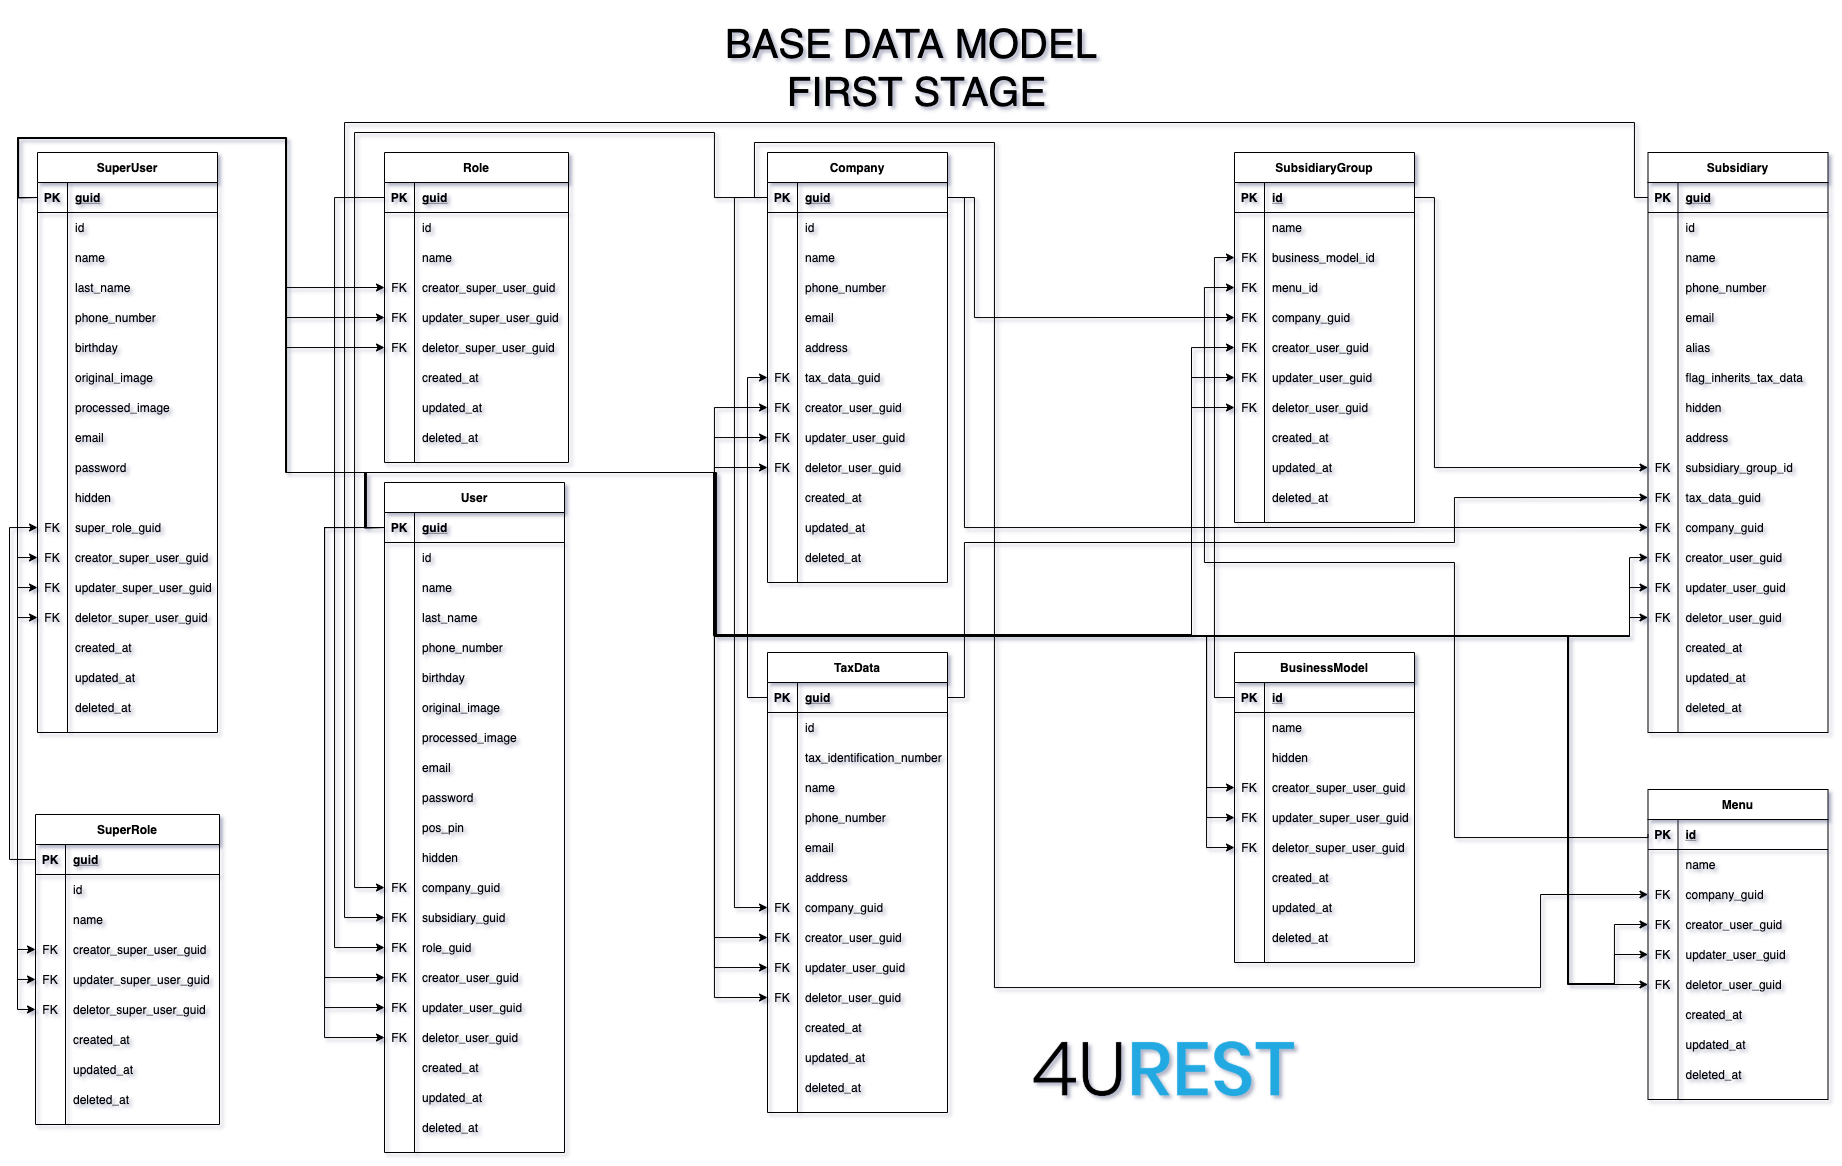
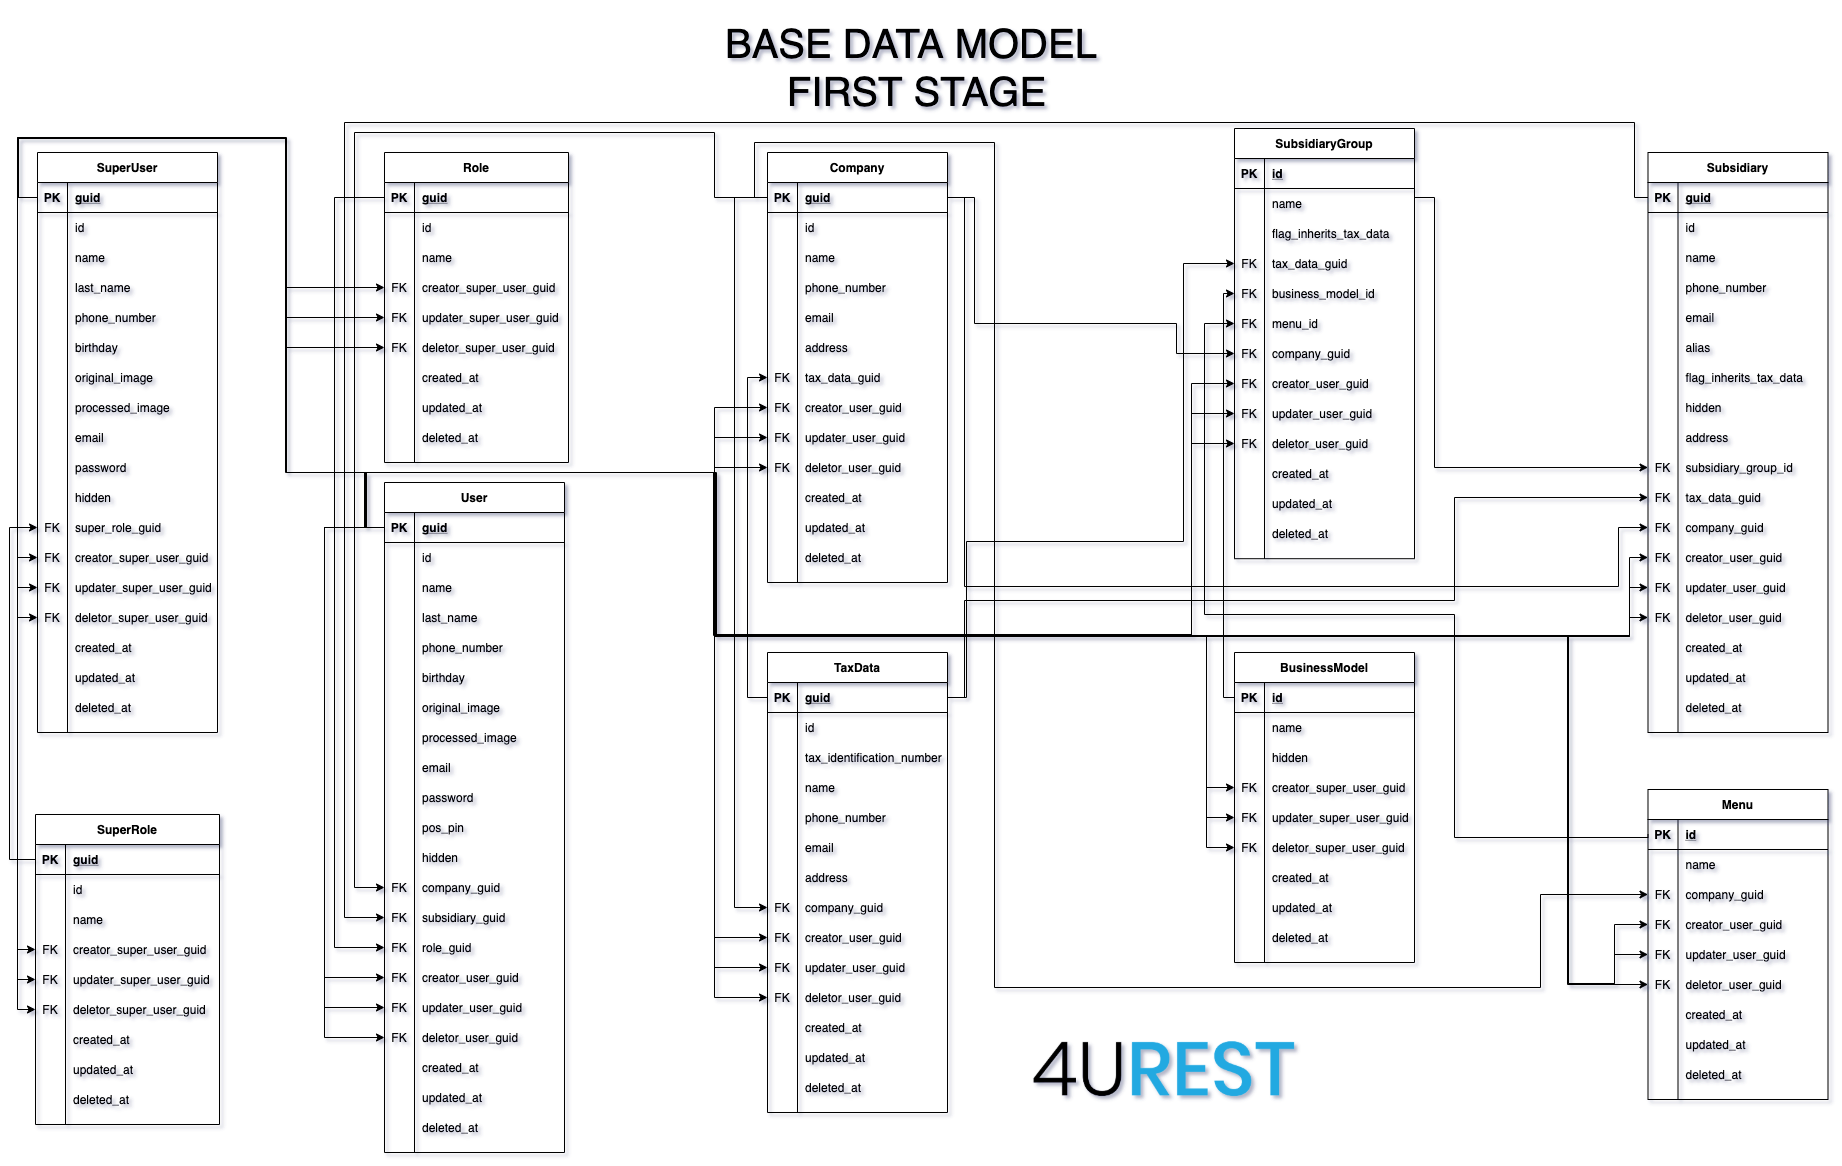
update database diagram

Changed region(s): [[0.6498, 0.0926, 0.7736, 0.5249]]

diff --git a/basedata/entities/SubsidiaryGroup.md b/basedata/entities/SubsidiaryGroup.md
@@ -1,22 +1,23 @@
 # Grupo de Sucursal
 
-Entidad utilizada para agrupar sucursales que comparten un menu.
-
-### **Tabla en base de datos.**
-
-
-Diagrama de la base de datos [(Link aquí)](https://app.diagrams.net/#G1TR1Q9nC36PcOae7jeaJIxgDLTjUUpkfL).
-
-### **Descripción de campos.**
-
-El detalle de los campos de la tabla en la base de datos son:
+Entidad utilizada para gestionar o clasificar un grupo de sucursales que comparten características base en el sistema, por ejemplo, un menú.
 
 ---
 
-### **3.  Modelo en base de datos.**
+## 1.   Descripción de campos.
+
+La descripción de los campos de las entidades se presenta a continuación.
+
+| Tipo | Campo | Descripción |
+
+--- 
+
+## 2.  Modelo en base de datos.
 
 El modelo de la entidad en la base de datos con sus llaves foráneas se presenta de la siguiente manera.
 
 ![Subsidiary Group table](/images/SubsidiaryGroupTable.png)
+
+Diagrama de la base de datos [(Link aquí)](https://app.diagrams.net/#G12bfdBfGq1QhoH-HbKd0D5KDiGZxJKMYT).
 
 📝 [Editar Documento](https://github.com/4uRest/documentation)

diff --git a/basedata/entities/TaxData.md b/basedata/entities/TaxData.md
@@ -1,22 +1,23 @@
 # Datos Físcales
 
-Entidad utilizada para clasificar/agrupar .
-
-### **Tabla en base de datos.**
-
-
-Diagrama de la base de datos [(Link aquí)](https://app.diagrams.net/#G1TR1Q9nC36PcOae7jeaJIxgDLTjUUpkfL).
-
-### **Descripción de campos.**
-
-El detalle de los campos de la tabla en la base de datos son:
+Entidad utilizada para gestionar los datos físcales de empresas, grupos de sucursales o sucursales en el sistema.
 
 ---
 
-### **3.  Modelo en base de datos.**
+## 1.   Descripción de campos.
+
+La descripción de los campos de las entidades se presenta a continuación.
+
+| Tipo | Campo | Descripción |
+
+--- 
+
+## 2.  Modelo en base de datos.
 
 El modelo de la entidad en la base de datos con sus llaves foráneas se presenta de la siguiente manera.
 
 ![Tax Data table](/images/TaxDataTable.png)
+
+Diagrama de la base de datos [(Link aquí)](https://app.diagrams.net/#G12bfdBfGq1QhoH-HbKd0D5KDiGZxJKMYT).
 
 📝 [Editar Documento](https://github.com/4uRest/documentation)

diff --git a/basedata/entities/BusinessModel.md b/basedata/entities/BusinessModel.md
@@ -1,22 +1,23 @@
 # Modelo de Negocio
 
-Entidad utilizada para clasificar/agrupar .
-
-### **Tabla en base de datos.**
-
-
-Diagrama de la base de datos [(Link aquí)](https://app.diagrams.net/#G1TR1Q9nC36PcOae7jeaJIxgDLTjUUpkfL).
-
-### **Descripción de campos.**
-
-El detalle de los campos de la tabla en la base de datos son:
+Entidad utilizada para clasificar el modelo de negocio de un grupo de sucursales en el sistema.
 
 ---
 
-### **3.  Modelo en base de datos.**
+## 1.   Descripción de campos.
+
+La descripción de los campos de las entidades se presenta a continuación.
+
+| Tipo | Campo | Descripción |
+
+--- 
+
+## 2.  Modelo en base de datos.
 
 El modelo de la entidad en la base de datos con sus llaves foráneas se presenta de la siguiente manera.
 
 ![Business Model table](/images/BusinessModelTable.png)
+
+Diagrama de la base de datos [(Link aquí)](https://app.diagrams.net/#G12bfdBfGq1QhoH-HbKd0D5KDiGZxJKMYT).
 
 📝 [Editar Documento](https://github.com/4uRest/documentation)

diff --git a/basedata/entities/Subsidiary.md b/basedata/entities/Subsidiary.md
@@ -1,22 +1,23 @@
 # Sucursal
 
-Entidad utilizada para clasificar/agrupar .
-
-### **Tabla en base de datos.**
-
-
-Diagrama de la base de datos [(Link aquí)](https://app.diagrams.net/#G1TR1Q9nC36PcOae7jeaJIxgDLTjUUpkfL).
-
-### **Descripción de campos.**
-
-El detalle de los campos de la tabla en la base de datos son:
+Entidad utilizada para representar una sucursal en el sistema.
 
 ---
 
-### **3.  Modelo en base de datos.**
+## 1.   Descripción de campos.
+
+La descripción de los campos de las entidades se presenta a continuación.
+
+| Tipo | Campo | Descripción |
+
+--- 
+
+## 2.  Modelo en base de datos.
 
 El modelo de la entidad en la base de datos con sus llaves foráneas se presenta de la siguiente manera.
 
 ![Subsidiary table](/images/SubsidiaryTable.png)
+
+Diagrama de la base de datos [(Link aquí)](https://app.diagrams.net/#G12bfdBfGq1QhoH-HbKd0D5KDiGZxJKMYT).
 
 📝 [Editar Documento](https://github.com/4uRest/documentation)

diff --git a/basedata/entities/SuperRole.md b/basedata/entities/SuperRole.md
@@ -1,15 +1,23 @@
-# Menú
+# Super Rol
 
-Entidad utilizada para clasificar/agrupar .
+Entidad utilizada para gestionar permisos y alcances de super usuarios en el sistema.
 
-### **Tabla en base de datos.**
+---
 
+## 1.   Descripción de campos.
 
-Diagrama de la base de datos [(Link aquí)](https://app.diagrams.net/#G1TR1Q9nC36PcOae7jeaJIxgDLTjUUpkfL).
+La descripción de los campos de las entidades se presenta a continuación.
 
-### **Descripción de campos.**
+| Tipo | Campo | Descripción |
 
-El detalle de los campos de la tabla en la base de datos son:
+--- 
 
+## 2.  Modelo en base de datos.
+
+El modelo de la entidad en la base de datos con sus llaves foráneas se presenta de la siguiente manera.
+
+![Super Role table](/images/SuperRoleTable.png)
+
+Diagrama de la base de datos [(Link aquí)](https://app.diagrams.net/#G12bfdBfGq1QhoH-HbKd0D5KDiGZxJKMYT).
 
 📝 [Editar Documento](https://github.com/4uRest/documentation)

diff --git a/basedata/entities/Menu.md b/basedata/entities/Menu.md
@@ -1,15 +1,23 @@
 # Menú
 
-Entidad utilizada para clasificar/agrupar .
+Entidad utilizada para gestionar el catálogo de productos y platillos en el sistema.
 
-### **Tabla en base de datos.**
+---
 
+## 1.   Descripción de campos.
 
-Diagrama de la base de datos [(Link aquí)](https://app.diagrams.net/#G1TR1Q9nC36PcOae7jeaJIxgDLTjUUpkfL).
+La descripción de los campos de las entidades se presenta a continuación.
 
-### **Descripción de campos.**
+| Tipo | Campo | Descripción |
 
-El detalle de los campos de la tabla en la base de datos son:
+--- 
 
+## 2.  Modelo en base de datos.
+
+El modelo de la entidad en la base de datos con sus llaves foráneas se presenta de la siguiente manera.
+
+![Menu table](/images/MenuTable.png)
+
+Diagrama de la base de datos [(Link aquí)](https://app.diagrams.net/#G12bfdBfGq1QhoH-HbKd0D5KDiGZxJKMYT).
 
 📝 [Editar Documento](https://github.com/4uRest/documentation)
